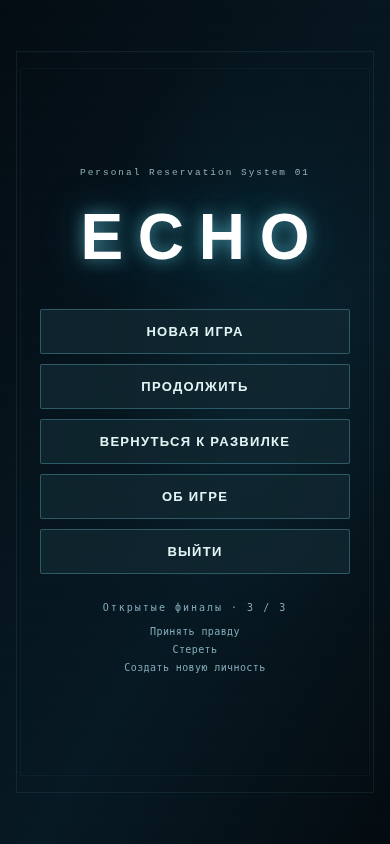
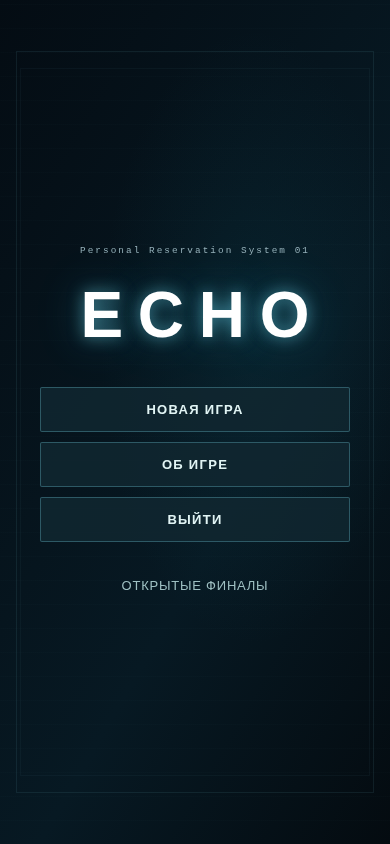
Move unlocked endings into a separate screen behind a text button

Changed region(s): [[0.1846, 0.2464, 0.8, 0.8009], [0.7077, 0.1848, 0.7385, 0.2156], [0.0923, 0.4313, 0.1231, 0.4621]]

diff --git a/src/game.js b/src/game.js
@@ -104,6 +104,8 @@ export class Game {
         const backMenuBtn = document.getElementById('btn-back-menu');
 
         document.getElementById('btn-return-branch')?.addEventListener('click', () => this.returnToBranch());
+        document.getElementById('btn-endings')?.addEventListener('click', () => {this.ui.updateEndingsCounter();this._showScreen('endings-screen');});
+        document.getElementById('btn-endings-back')?.addEventListener('click', () => this._showScreen('menu-screen'));
         document.getElementById('btn-about')?.addEventListener('click', () => this._showScreen('about-screen'));
         document.getElementById('btn-about-back')?.addEventListener('click', () => this._showScreen('menu-screen'));
         document.getElementById('btn-exit-back')?.addEventListener('click', () => {this.state='menu';this._showScreen('menu-screen');});
@@ -137,7 +139,7 @@ export class Game {
     }
 
     _showScreen(id) {
-        document.body.classList.toggle('menu-view', ['menu-screen','about-screen','exit-screen'].includes(id));
+        document.body.classList.toggle('menu-view', ['menu-screen','about-screen','exit-screen','endings-screen'].includes(id));
         document.querySelectorAll('.screen').forEach(el => el.classList.remove('active'));
         if (id) {
             const el = document.getElementById(id);

diff --git a/style.css b/style.css
@@ -809,3 +809,21 @@ body.menu-view #subtitle-box, body.menu-view #interact-prompt { display:none !im
 #btn-journal, #btn-sound { pointer-events:none; }
 #moral-overlay .menu-btn { display:block; width:100%; margin-top:12px; }
 @media(max-height:650px) { #menu-screen { justify-content:flex-start; padding-top:22px; } #menu-screen .echo-logo { font-size:60px; } .main-menu-actions { margin-top:10px; gap:6px; } .main-menu-actions .menu-btn { padding:10px; } }
+
+.menu-text-btn {
+    margin: 12px 0 0;
+    padding: 6px 12px;
+    background: transparent;
+    border: 0;
+    box-shadow: none;
+    color: #9ebfc1;
+    font: 13px 'Segoe UI', sans-serif;
+    letter-spacing: .06em;
+    cursor: pointer;
+}
+.menu-text-btn:hover { background: transparent; color: #e3f3ef; text-decoration: underline; box-shadow: none; }
+.menu-text-btn:focus-visible { outline: 1px solid #a5dbd4; outline-offset: 4px; }
+#endings-screen { gap: 22px; }
+#endings-screen h2 { margin: 0; }
+#endings-screen .menu-ending-list { margin: 0; text-align: center; color: #c8ddd7; font-size: 17px; line-height: 2.2; }
+.endings-empty { color: #9eb9b4; text-align: center; padding: 0 20px; }

diff --git a/src/ui.js b/src/ui.js
@@ -183,7 +183,7 @@ export class UI {
         if (this.counterEl) this.counterEl.textContent = `ФИНАЛЫ ${count}/3`;
         if (this.menuEndingsEl) {
             this.menuEndingsEl.replaceChildren();
-            const title=document.createElement('div');title.textContent=`Открытые финалы · ${count} / 3`;this.menuEndingsEl.appendChild(title);
+            if(!count){const empty=document.createElement('p');empty.className='endings-empty';empty.textContent='Пока ни один финал не открыт.';this.menuEndingsEl.appendChild(empty);}
             const list=document.createElement('ul');list.className='menu-ending-list';
             for(const id of this.game.unlockedEndings){if(!endings[id])continue;const li=document.createElement('li');li.textContent=endings[id].title;list.appendChild(li);}
             this.menuEndingsEl.appendChild(list);

diff --git a/index.html b/index.html
@@ -48,7 +48,13 @@
             <button id="btn-about" class="menu-btn">Об игре</button>
             <button id="btn-exit" class="menu-btn">Выйти</button>
         </nav>
-        <section id="menu-endings" class="endings-counter" aria-label="Открытые финалы"></section>
+        <button id="btn-endings" class="menu-text-btn" type="button">Открытые финалы</button>
+    </div>
+
+    <div id="endings-screen" class="screen">
+        <h2>Открытые финалы</h2>
+        <section id="menu-endings" aria-label="Полученные концовки" aria-live="polite"></section>
+        <button id="btn-endings-back" class="menu-btn" type="button">В главное меню</button>
     </div>
 
     <div id="about-screen" class="screen">
